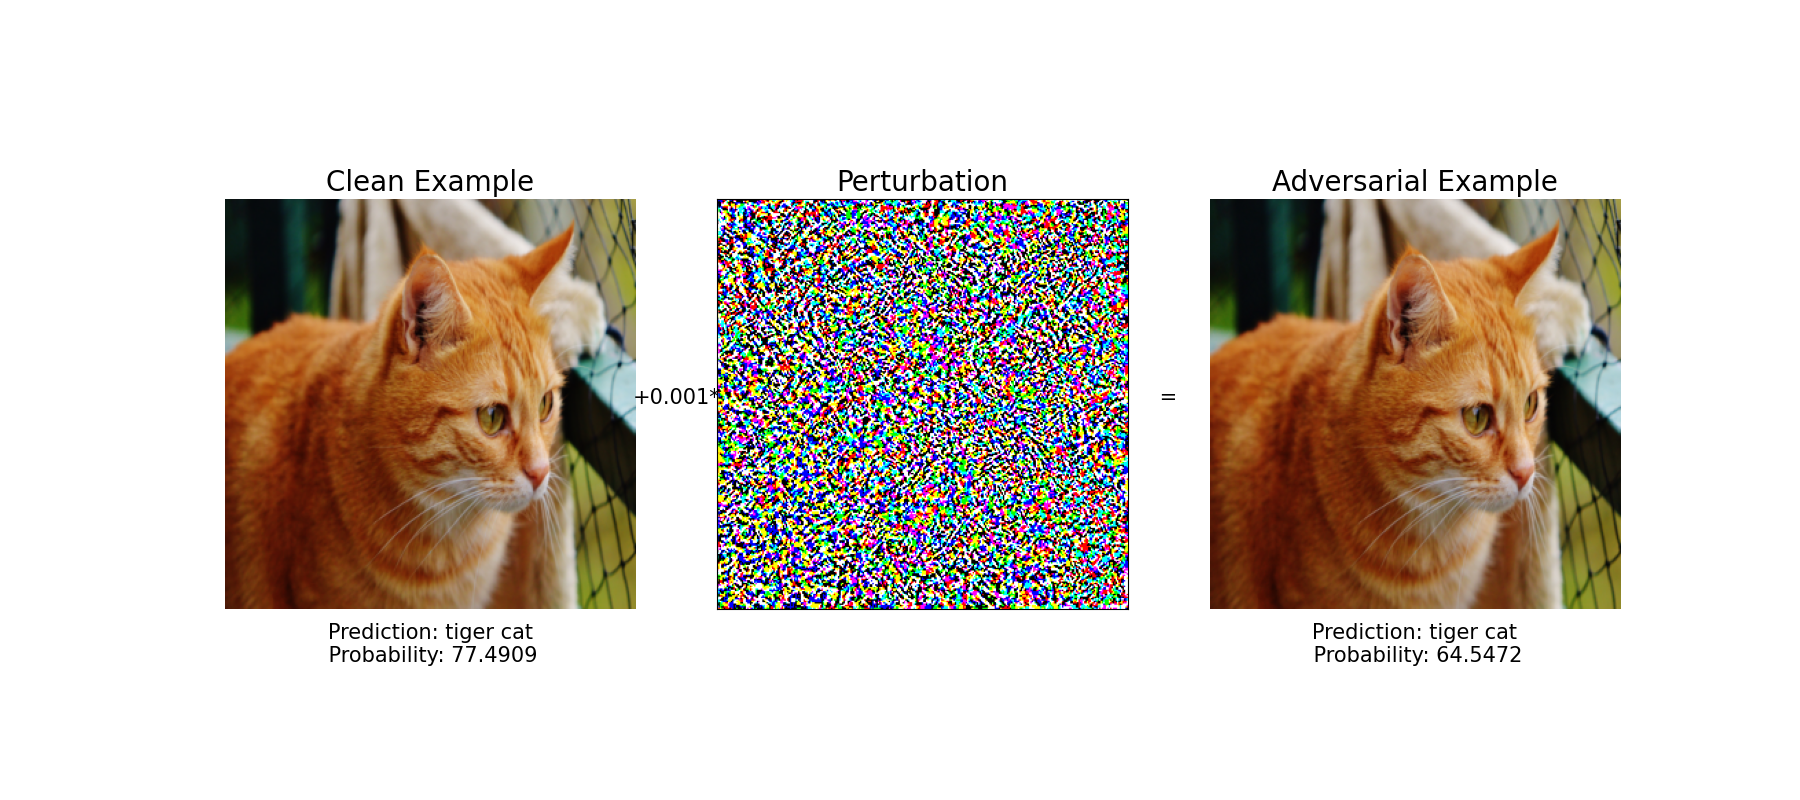
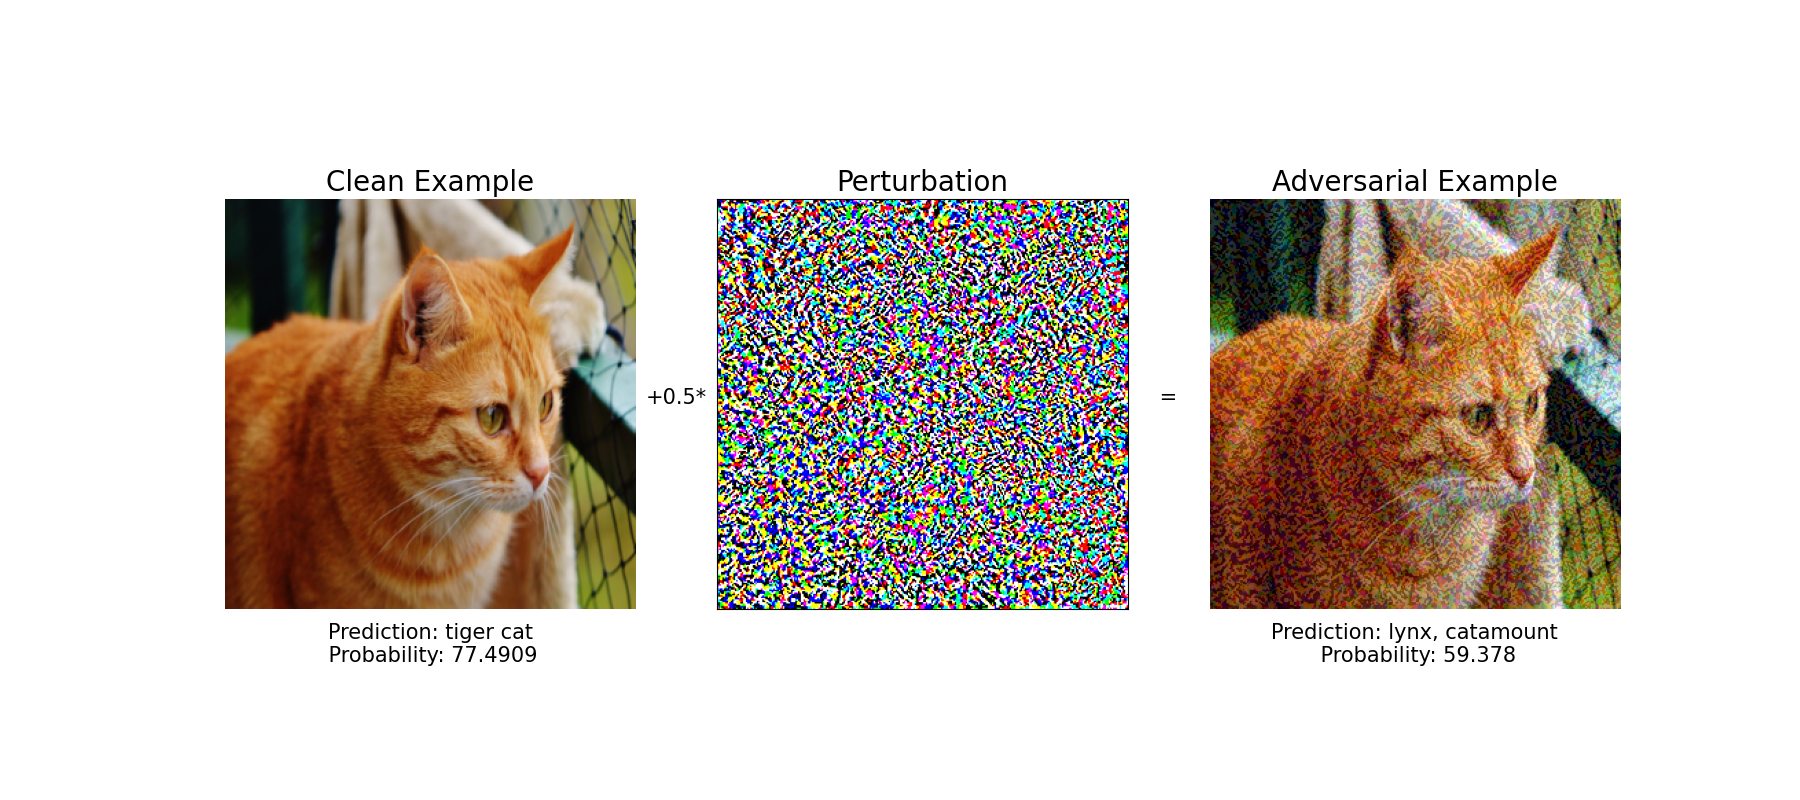
update image is attacked

Changed region(s): [[0.6533, 0.25, 0.9022, 0.8438], [0.3422, 0.4688, 0.4044, 0.5]]

diff --git a/attacks/demo.py b/attacks/demo.py
@@ -59,4 +59,4 @@ def main(eps):
 
 
 if __name__ == '__main__':
-    main(0.001)
+    main(0.5)
